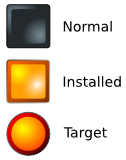
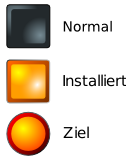
German translation finished!

Changed region(s): [[0.5, 0.4375, 1.0, 0.5625], [0.5, 0.7812, 0.8571, 0.9062]]

diff --git a/fontypythonmodules/help/de/help.html b/fontypythonmodules/help/de/help.html
@@ -22,80 +22,80 @@
 		<a href="#LAYOUT">Das Layout</a> | <a href="#MENUS">Die Menüs</a> | <a href="#SHORTCUTS">Schnellzugriff</a> | <a href="#TIPS">Tipps</a> | <a href="#L10N">Regionale Anpassung</a> | <a href="#BUGS">Fehler</a> | <a href="#LIC">Lizenz</a>
 		</p>
 
-		<h3><font color="#758B94">&Uuml;ber den Grundgedanken</font></h3>
+		<h3><font color="#758B94">Über den Grundgedanken</font></h3>
 		<p>Sie wählen Schriften aus und stellen Sie in <b>"Pogs"</b> zusammen. Sie installieren ein Pog und alle darin versammelten Schriftarten sind für andere Programme verfügbar. Werden sie nicht mehr gebraucht, deinstallieren Sie das Pog wieder.</p>
 		<p>In das Wort "Pog" bin ich selbst hineingestolpert, es leitet sich von der Mitte des Wortes "Typografie" ab. Es bedeutet soviel wie "Sammlung" oder "Gruppe" oder "Bündel" oder "Schachtel" oder "Kasten" oder "Stapel" oder "Haufen" &mdash; Sie wissen was ich meine.</p>
-		<p>Die Schriftdateien werden im Verzeichnisbaum weder verschoben, noch werden Kopien gemacht; bei der Installation werden <i> nur symbolische Verknüpfungen (Links) mit den Originalen </i> im Heimatverzeichnis unter <i>.fonts</i> angelegt.</p>
+		<p>Die Schriftdateien werden im Verzeichnisbaum weder verschoben, noch werden Kopien gemacht; bei der Installation werden <i> nur symbolische Verknüpfungen (Links) mit den Originalen </i> im Heimatverzeichnis unter "<i>.fonts</i>" angelegt.</p>
 		<p>Sie haben z.B. ein Pog "Zoo Logo", in dem Sie alle Schriften abgelegt haben, um ein Logo für einen Zoo zu entwerfen. Anschließend reicht die Installation des Pogs "Zoo Logo". Alle Schriften erscheinen nun in Inkscape, Gimp und anderen Anwendungen. Gehen Sie ganz normal an Ihre Arbeit und machen sich keine Gedanken mehr über die Schriften. Ist die Arbeit getan, deinstallieren Sie "Zoo Logo" und alle Schriften sind wieder aus den Schrift-Auswahldialogen verschwunden. (D.h. die Verknüpfungen/Links mit den originalen Schriftdateien sind aus dem .fonts-Ordner im Heimatverzeichnis entfernt worden, was einer Deinstallation gleichkommt.)</p>
 		<p>Fonty eignet sich auch hervorragend zum Betrachten von Schriften, egal wo sie gespeichert sind und ohne systemweite Installation. Es hat eine Kommandozeilen-Schnittstelle, von der aus Pogs installiert/deinstalliert werden können, ohne die grafische Oberfläche starten zu müssen. Eine nette Besonderheit!</p>
 		<h3><font color="#758B94">Verborgene Schriften im Heimatverzeichnis</font></h3>
-		<p>Im Heimatverzeichnis befindet sich ein verborgener Ordner '.fonts'. Der Punkt kennzeichnet ihn als versteckt. Darin finden sich (eventuell) die unterschiedlichsten Arten von Schriftdateien, die alle vom System genutzt werden können. Allerdings ist es nicht ganz so einfach, weil unter GNU/Linux Schriften auch an anderen Stellen installiert werden können. Aber es ist ein praktischer Ort. Normalerweise braucht man nicht in diesen Ordner zu wechseln, warum sich also weiter Gedanken darum machen.</p>
+		<p>Im Heimatverzeichnis befindet sich ein verborgener Ordner ".fonts". Der Punkt kennzeichnet ihn als versteckt. Darin finden sich (eventuell) die unterschiedlichsten Arten von Schriftdateien, die alle genutzt werden können. Ganz so einfach ist es leider nicht, weil unter GNU/Linux Schriften auch an anderen Stellen systemweit installiert werden. Aber dieser Ordner ist bestens geeignet, eigene Schriften zu installieren. Und da man normalerweise nicht direkt in diesen Ordner wechselt, müssen Sie sich weiter keine Gedanken darum machen.</p>
 		<h3><font color="#758B94">Letzte Neuerungen</font></h3>
 		<ol>	
-			<li>(Sept 2009) Pogs können archiviert werden. Alle Schriften darin werden in einer komprimierten Datei zusammengefasst z.B. um sie weiter zu verteilen.</li>
-			<li>(Juni 2009) Es gibt die Möglichkeit Unterverzeichnisse einzuschließen. Siehe auch die Kommandozeilenoption "-A"</li>
-			<li>(June 2009) Neue Tastenkürzel. Strg+PfeilLinks and Strg+PfeilRechts blättert durch die Seiten.</li>
-			<li>(June 2009) Mehrfachauswahl von Pogs. In einem Schritt können viele Pogs entfernt, installiert oder deinstalliert werden.</li>
+			<li>(September 2009) Pogs können archiviert werden. Alle Schriften darin werden in einer komprimierten Datei zusammengefasst z.B. um sie weiter zu verteilen.</li>
+			<li>(Juni 2009) Es gibt die Möglichkeit Unterverzeichnisse einzuschließen. Siehe auch die Kommandozeilenoption "-A".</li>
+			<li>(Juni 2009) Neue Tastenkürzel. Strg+PfeilLinks and Strg+PfeilRechts blättert durch die Seiten.</li>
+			<li>(Juni 2009) Mehrfachauswahl von Pogs. In einem Schritt können viele Pogs entfernt, installiert oder deinstalliert werden.</li>
 		</ol>
 		
 		<CENTER><IMG src="../common/break.png" border="0"></CENTER>
 
 		<A NAME="LAYOUT"></A>
-		<h3><font color="#758B94">Layout</font></h3>
+		<h3><font color="#758B94">Das Layout</font></h3>
 		<CENTER><IMG src="fp_1to8-nq8.png" border="0">
-		<p><font size=1>Die Benutzeroberfläche ist von links nach rechts aufgebaut. Zunächst wählen Sie ganz links einen Ursprung aus, dann die einzelnen Schriften im mittleren Bereich. Schließlich legen Sie ein 'Pog' als Ziel fest, unter dem die Schriften gespeichert werden.</font></p></CENTER>
+		<p><font size=1>Die Benutzeroberfläche ist von links nach rechts aufgebaut. Zunächst wählen Sie ganz links einen Ursprung aus, dann die einzelnen Schriften im mittleren Bereich. Schließlich legen Sie ein "Pog" als Ziel fest, unter dem die Schriften gespeichert werden.</font></p></CENTER>
 
 
 	<table cellspacing="10">
 	<tr><td valign="top">
 		<IMG src="../common/fp1.png.cr.png" align="left" border="0">
 		</td><td>
-		<h4>Source of fonts.</h4>
-		<p>You can choose a folder <i>or</i> another Pog as the <i>Source</i>, simply choose the appropriate tab.<br>It's quite nice to get fonts out of another Pog sometimes (it's quicker than trying to find them on a drive somewhere), so Pogs can be Sources too &mdash; don't let this confuse you!<br>Keep your eyes on the label at 2 to see what the current selected Source is.</p>
-		<p><strong>Sub-Folders</strong>: Above the Folders is a checkbox to include fonts in sub-folders under your chosen folder. You can deal with many fonts at once in this way &mdash; but beware the trade-off of speed and stability.</p>
+		<h4>Woher kommen die Schriften?</h4>
+		<p>Sie können einen Ordner <i>oder</i> ein anderes Pog als <i>Ursprung</i> verwenden, wählen Sie einfach den entsprechenden Reiter.<br>Manchmal ist es sinnvoll, wenn man Schriften aus einem anderen Pog wählt (es ist viel schneller als ein ganzes Laufwerk zu durchsuchen). Also auch Pogs können Ursprung sein &mdash; lassen Sie sich davon nicht verwirren!<br>Behalten Sie immer die Zeile bei 2 (Statusanzeige) im Auge.</p>
+		<p><strong>Unterverzeichnisse</strong>: Unterhalb der Ordneransicht befindet sich ein Kontrollkästchen "Unterverzeichnisse einschliessen", d.h. alle Schriften in Unterverzeichnissen des gewählten Ordners werden in der Vorschau mit angezeigt. Auf diese Weise können Sie mit sehr vielen Schriften gleichzeitig arbeiten &mdash; Geschwindigkeit und Stabilität leiden aber möglicherweise darunter.</p>
 	</td></tr>
 	<tr><TD valign="top">
 			<IMG src="../common/fp2.png.cr.png" align="left" border="0"></TD><td>
-			<h4>Information area.</h4>
-			<p>This section informs you about what is selected in the Source and Target portions of the interface. Along with the status bar, it keeps you informed about what you can and cannot do at any time.</p>
+			<h4>Statusanzeige</h4>
+			<p>Diese Zeile informiert Sie über die aktuelle Auswahl von Ursprung und Ziel. Zusammen mit der Hilfezeile am unteren Fensterrand gibt sie Auskunft darüber, welche Aktionen möglich oder nicht möglich sind.</p>
 	</td></tr>
 	<tr>
 	<TD valign="top">
 		<IMG src="../common/fp3.png.cr.png" align="left" border="0"></TD><td>
-		<h4>The font view.</h4>
-		<p>The fonts in the folder or Pog you chose on the left will show here.</p>
-		<p><strong>Please note</strong>: An error marker may appear instead of the expected font glyphs. These fonts either cannot be opened (for whatever reason) or Fonty cannot draw them. <i>You can still select</i> these 'bad' fonts, place them into Pogs and then install them. The reason for this is that Fonty Python is not all that good at drawing fonts (it's a long story) but other apps like Inkscape and The Gimp work just fine. So, if you know you need a font and Fonty says it's bad, just ignore the error message and select it like any other font.</p>
-		<p><strong>Tip</strong>: You can change the size of the fonts with <strong>Ctrl + mouse wheel (up/down)</strong>.</p>
-		<h5>This section has various behaviours, depending on what you have selected:</h5>
+		<h4>Die Vorschau</h4>
+		<p>Die Schriften im links markierten Ordner oder Pog werden hier angezeigt.</p>
+		<p><strong>Nota bene</strong>: Statt des erwarteten Textes erscheint möglicherweise eine Fehlermeldung. Diese Schriften können entweder aus irgendwelchen Gründen nicht geöffnet werden oder FontyPython kann sie nicht darstellen. <i>Trotzdem lassen sie sich diese "schlechten" Schriften auswählen, in Pogs speichern und installieren</i>. Der Grund ist, daß FontyPython (leider immer noch nicht) Schriften nicht so zuverlässig darstellen kann wie andere Anwendung, z.B. Inkscape oder The Gimp. Also, auch wenn Fonty behauptet eine Schrift sei "schlecht", ignorieren Sie die Fehlermeldung und behandeln Sie sie wie jede andere Schrift.</p>
+		<p><strong>Tipp</strong>: Die Schriftgröße kann sehr schnell mit der Kombination <strong>Strg + Mausrad (auf/ab)</strong> verändert werden.</p>
+		<h5>Dieser Bereich ermöglicht unterschiedliche Aktionen, je nachdem was ausgewählt ist:</h5>
 		<ol>
 			<li>
-			<h5>You have selected a Source (Pog or Folder) and a Target Pog</h5>
+			<h5>Es ist ein Ursprungsordner oder Pog und ein Ziel ("Vorhandene Pogs") markiert</h5>
 			<IMG src="../common/fp_ticking.png" border="0">
-			<p>This will let you tick fonts and then store them in the Target Pog.</p>
-			<h6>Areas of interest</h6>
+			<p>Schriften können angehakt und im Pog gespeichert werden.</p>
+			<h6>Die Elemente im Einzelnen</h6>
 			<ol>
-				<li><strong>Character Map Button</strong> If you have <em>gucharmap</em> or <em>kfontview</em> installed, this button will show and when clicked will open one of those two apps to let you view the full character-set of the font. You can choose which character map viewer to use in the Settings.<p></p></li>
-				<li><strong>Tick Area</strong> Clicking anywhere on a font will either <em>tick</em> or <em>cross</em> it.<p>A <em>tick</em> means the font can be placed into a <em>Target Pog</em> &mdash; i.e. the one chosen in the right-hand panel.</p><p>A <em>cross</em> means the font will be removed from the <em>Source Pog (The one you are viewing at the moment)</em> &mdash; i.e. the Pog currently chosen on the left-panel.</p><p></p></li>
-				<li><strong>Font Info</strong> Here you will find the family and style and filename. When you use the filter to search, this is the text that is used.</li>
+				<li><strong>Schalter für die Zeichentabelle</strong>: Wenn <em>gucharmap</em> oder <em>kfontview</em> auf Ihrem System installiert ist, wird dieser Schalter angezeigt. Damit können Sie eines der Programme starten, die die vollständige Zeichentabelle der Schrift anzeigen. Welches Programm benutzt werden soll, kann im Dialog Optionen eingestellt werden.<p></p></li>
+				<li><strong>Auswahlbereich</strong>: Ein Klick in diesen Bereich <em>hakt</em> oder <em>kreuzt</em> die Schrift an.<p>Ein <em>Haken</em> bedeutet die Schrift kann in das <em>markierte Pog</em> übernommen werden &mdash; also in das in der rechten Liste ausgewählte.</p><p>Ein <em>Kreuz</em> bedeutet die Schrift wird aus dem <em>gerade angezeigten Pog </em> entfernt &mdash; das Pog also, das in der linken Liste ausgewählt ist.</p><p></p></li>
+				<li><strong>Schriftinformationen</strong>: Hier werden die Familie, der Stil sowie der Dateiname eingeblendet. Diese Angaben werden beim Filtern der Vorschau ausgewertet.</li>
 			</ol>
 			<hr>
 			</li>
 			<li>
-			<h5>You have selected a Source Folder (or a Pog) <em>only</em></h5>
+			<h5>Es ist <em>nur</em> ein Ursprungsordner markiert</h5>
 			<IMG src="../common/fp_normal_item.png" border="0">
-			<p>This will not let you tick anything, you can only look. There is no visual difference.</p>
+			<p>Die Schriften können weder angehakt noch angekreuzt werden. Optisch gibt es keinen Unterschied zum vorher beschriebenen Zustand.</p>
 			<hr>
 			</li>
 			<li>
-			<h5>You have selected a Source Pog <em>only</em></h5>
+			<h5>Es ist <em>nur</em> links ein Pog markiert</h5>
 			<IMG src="../common/fp_removing_a_font.png" border="0">
-			<p>This will let you cross-out fonts that you want to remove from the Pog you are looking at now.</p>
+			<p>Sie kreuzen die Schriften an, die aus dem Pog entfernt werden sollen.</p>
 			<hr>
 			</li>
 			<li>
-			<h5>Inactive fonts</h5>
-			<IMG src="../common/fp_already_in_x.png" border="0">
-			<p>This greyed-out font indicates that it's already in the Target Pog, so you can't select it.</p>
+			<h5>Gesperrte Schriften</h5>
+			<IMG src="fp_already_in_x.png" border="0">
+			<p>Die ausgegraute Anzeige weist auf Schriften hin, die sich bereits im Ziel(-pog) befinden. So wird verhindert, dass Schriften mehrfach in einem Pog gespeichert werden.</p>
 			</li>
 	</ol>
 	</td>
@@ -103,17 +103,17 @@
 	<tr>
 	<TD valign="top">
 	<IMG src="../common/fp4.png.cr.png" align="left" border="0"></TD><td valign="top">
-	<h4>Target Pogs.</h4>
+	<h4>Status der Pogs</h4>
 	<table><tr>
 			<td>
 				<IMG src="fp_pog_icons.cr.png" align=left border="0">
 			</td>
 			<td valign="top">
-				These icons indicate which are currently installed and which are not.
+				Diese Symbole zeigen an, ob ein Pog installiert ist.
 				<ul>
-					<li>You cannot use an installed Pog as a Target.</li>
-					<li>You choose a Target Pog by clicking one (on the right).</li>
-					<li>By holding <i>Ctrl</i> you can select many Pogs at once.</li>
+					<li>Installierte Pogs können nicht verändert werden.</li>
+					<li>Welches Pog erweitert werden soll ("Ziel") bestimmen Sie rechts.</li>
+					<li>Mit <i>Strg + Klick</i> können mehrere Pogs gleichzeitig ausgewählt werden.</li>
 				</ul>
 			</td>
 		</tr>
@@ -121,147 +121,145 @@
 	</td></tr>
 	<tr><TD valign="top">
 			<IMG src="../common/fp5.png.cr.png" align="left" border="0"></TD><td>
-			<h4>The filter.</h4>
-			<p>This is the "filter". You can type partial words here and the list of fonts will change to reflect the search. For example, if you only want the italic fonts, then type <pre>italic</pre> (And press ENTER)<br>When you want all the fonts again, clear the box and press ENTER.</p>
-	<p><strong>Tip</strong>: If you want to search for bold <em>or</em> italic (i.e fonts with either term) then type in <pre>bold | italic</pre><font size=-1>That line (|) is the key near ENTER, above the backslash (\) character on a US-English keyboard. It means "OR" so: "bold OR italic" is what you are saying to the filter.</font></p>
-			<p><strong>NOTE</strong>: There's a bug I can't find &mdash; If you are not seeing any fonts, be sure to clear your filter and press <strong><em>enter</em></strong>; you may have to do it twice.</p> 
+			<h4>Der Filter</h4>
+			<p>In der Vorschau erscheinen nur noch die Schriften, auf deren Angaben (vgl. <strong>Schriftinformationen</strong>) der hier eingegebene Text zutrifft. Wollen Sie z.B. nach Serifen filtern, schreiben Sie <pre>serif</pre> (und betätigen die Eingabetaste!)<br><br>Wollen Sie wieder zur ungefilterten Ansicht zurückkehren, benutzten Sie den Schalter "Filter löschen" bzw. leeren das Eingabefeld.<br>Für die Suche nach Standardstilen benutzen Sie die Wechselschalter "Fett", "Kursiv", "Normal". Ist z.B. der Schalter "Fett" eingedrückt werden nur noch Schriften angezeigt deren vollständiger Name das Wort "bold" (die englische Bezeichnung für fette Schriften) enthält. "Fett" und "Kursiv" lassen sich kombinieren, "Normal" kann nur allein aktiviert werden. Eine fette, normale Schrift wäre ziemlich unlogisch!</p>
+	<p><strong>Tipp</strong>: Sicher ist Ihnen die Linie (|) in <pre>regular|normal</pre><br><br>aufgefallen, wenn Sie den Schalter "Normal" betätigen. Das Eingabefeld erlaubt reguläre Ausdrücke für, alle die etwas davon verstehen.<font size=-1> "|" bedeutet "ODER", es werden also nur Schriften ausgefiltert, auf die die Beschreibung "normal" ODER "regular" zutrifft.</font></p>
+			<p><strong>ANMERKUNG</strong>: Es gibt einen Fehler, den ich noch nicht beheben konnte &mdash; wenn Sie keine Schriften sehen können, stellen Sie sicher, dass das Eingabefeld "Filter" leer ist und drücken, eventuell auch zweimal, die  <strong><em>Eingabetaste</em></strong>.</p> 
 	</td></tr>
 	<tr>
 		<TD valign="top">
 		<IMG src="../common/fp6.png.cr.png" align="left" border="0"></TD><td>
-		<h4>The action button.</h4>
-		<p>This is the main <i>action</i> button. It will change its functionality as you select various combinations. The text of the button ought to give a clear indication of what it will do. Read it in conjunction with the Info area and the status bar.</p>
+		<h4>Der Hauptschalter</h4>
+		<p>Dies ist der wichtigste Schalter. Er löst je nach der aktuellen Situation verschiedene <i>Aktionen</i> aus. Die Beschriftung des Schalters sollte einen klaren Hinweis darauf geben, was geschieht. Beachten Sie auch die <strong>Statusanzeige</strong> und die <strong>Hilfezeile</strong>.</p>
 	</td></tr>
 	<tr>
 		<TD valign="top"><IMG src="../common/fp7.png.cr.png" align="left" border="0"></TD><td>
-			<h4>Navigation.</h4>
-			<p>These controls allow you to navigate between "pages" of fonts. You can also choose any page from the pull-down. Please go to Tools->Settings (or hit Ctrl+S &mdash; for English locales) where you can change the number of fonts in a page. <i>I use the paged approach to reduce the memory demands of the app.</i></p>
+			<h4>Navigation</h4>
+			<p>Hier können Sie sich durch die "Seiten" bewegen. Benutzen Sie die "Vor"/"Zurück"-Schalter oder gehen direkt zu einer Seite über die Aufklappliste. Im Einstellungsdialog (Datei->Optionen oder Strg+O &mdash; für die deutsche Version) kann die Seitenlänge, d.h. die Schriften pro Seite, festgelegt werden. <i>Dieser Ansatz soll den Speicherbedarf von FontyPython möglichst gering halten.</i></p>
 	</td></tr>
 	<tr>
 		<TD valign="top"><IMG src="../common/fp8.png.cr.png" align="left" border="0"></td><td>
-	<h4>Pog actions.</h4>
-	<p>The buttons in this section all act upon the currently selected <strong>Target</strong> Pog(s). You can variously delete, install, uninstall and zip the selected Pog(s). You can also create new Pogs from here.</p><p>The "Clear Selection" button will clear all the Pogs you have selected.</p>
+	<h4>Abteilung Pogs</h4>
+	<p>Diese Schalter verändern die <strong>Ziel</strong>-Pogs ("Vorhandene Pogs"). Alle markierten Pogs können gelöscht, installiert, deinstalliert oder komprimiert werden. Oder Sie erstellen ein neues Pog.</p><p>Mit "Nichts auswählen" entfernen Sie alle Markierungen.</p>
 	</td></tr>
 	</table>
-	<p><A href="#TOP"><font size=-1>Go to top</font></A></p>
+	<p><A href="#TOP"><font size=-1>Nach oben</font></A></p>
 
 	<CENTER><IMG src="../common/break.png" border="0"></CENTER>
 
 	<A NAME="MENUS"></A>
-	<h3><font color="#758B94">Menu items</font></h3>
+	<h3><font color="#758B94">Die Menüs</font></h3>
 	<ol>
-		<li><strong>Tools menu</strong>
+		<li><strong>Das Datei-Menü</strong>
 		<ol>
-			<li>Settings: Access the settings for the font view. Shortcuts: Ctrl+S or middle-click on the font view.</li>
-			<li>Check Fonts: Choose a folder and scan for bad fonts which are then noted to prevent crashing Fonty in the future. Use this if your head is tired of the wall/desktop.</li>
-			<li>Purge Pog: The Pog you are currently looking at may have yellow items which indicate fonts that are not there anymore. Use purge to remove them. <font size=-1>A Pog contains a list of fonts paths. If a font is moved on the disk, say it's renamed or deleted, then the path in the Pog will point to a font that is not there anymore.</font></li>
-			<li>Exit: Guess :)</li>
-		</ol>
-		<li><strong>Selection menu</strong>
+			<li>Optionen: Einstellungen für die Vorschau. Schnellzugriff: Strg+O oder Mittelklick auf die Vorschau.</li>
+			<li>Überprüfe Schriften: Bestimmen Sie einen Ordner, der auf Schriften überprüft werden soll, die FontyPython immer wieder zum Absturz bringen. Der Rettungsring für genervte Nutzer.</li>
+			<li>Bereinige Pog: Vielleicht sehen Sie in einem Pog gelb hervorgehobene Einträge. Ein Pog ist eigentlich nur eine Liste mit Dateipfaden zu den Schriften. Wurde eine Schrift umbenannt, verschoben oder gelöscht, führt der Eintrag ins Leere. Hier können Sie alle verwaisten Einträge aus einem Pog entfernen.</li>
+			<li>Beenden: Raten Sie mal :)</li>
+		</ol><br>
+		<li><strong>Das Auswahl-Menü</strong>
 		<ol>
-			<li>Select ALL the source fonts: While only a few fonts are shown in a page at a time, there may be thousands in the selected source. This will select all those fonts in one go.</li>
-			<li>Clear ENTIRE selection: Will clear any selection.</li>
+			<li>ALLE Schriften im Ordner/Pog auswählen: Auch wenn nur wenige Schriften auf einer Seite angezeigt werden, befinden sich vielleicht viel mehr in dem Ordner/Pog. Diese werden alle in einem Durchgang angehakt bzw. angekreuzt.</li>
+			<li>GESAMTE Auswahl aufheben: Alle Markierungen werden wieder entfernt.</li>
 		</ol>
 	</ol>
 
-	<p><A href="#TOP"><font size=-1>Go to top</font></A></p>
+	<p><A href="#TOP"><font size=-1>Nach oben</font></A></p>
 
 	<CENTER><IMG src="../common/break.png" border="0"></CENTER>
 	
 
 	<A NAME="SHORTCUTS"></A>
-	<h3><font color="#758B94">Shortcut keys</font></h3>
+	<h3><font color="#758B94">Schnellzugriff</font></h3>
 	<ol>
-		<li><strong>If shortcut keys don't work</strong>, click in the filter text box. This seems to kick them back to life. Don't ask me what's going on....</li>
-		<li><strong>Esc key</strong> will close your app (and help etc.) quickly.</li>
-		<li><strong>Ctrl+LeftArrow and Ctrl+RightArrow</strong> will step through fonts like the Next and Previous buttons do.</li>
-		<li><strong>Middle-click (the wheel-button)</strong> in the font view (position 3 above) will open the Settings screen (like Ctrl+S does)</li>
-		<li><strong>Ctrl + Mouse wheel up/down</strong> will increase/decrease the size of your font previews quickly.</li>
+		<li><strong>Wenn die Schnellzugriffstasten nicht funktionieren</strong>, setzen Sie den Eingabefocus in das Filtertextfeld. Fragen Sie mich nicht warum....</li>
+		<li><strong>Escape</strong> schliesst Anwendung, Dialoge oder Hilfe.</li>
+		<li><strong>Strg+PfeilLinks und Strg+PfeilRechts</strong> haben die gleiche Wirkung wie die "Vor"/"Zurück"-Schalter.</li>
+		<li><strong>Mittelklick (Mausrad)</strong> in der Vorschau (vgl. Punkt 3 Die Vorschau) öffnet den Einstellungsdialog.</li>
+		<li><strong>Strg + Mausrad</strong> vergrößert/verkleinert die Schriftgröße direkt.</li>
 	</ol>
 	
-	<p><A href="#TOP"><font size=-1>Go to top</font></A></p>
+	<p><A href="#TOP"><font size=-1>Nach oben</font></A></p>
 
 	<CENTER><IMG src="../common/break.png" border="0"></CENTER>
 
 	<A NAME="TIPS"></A>
-	<h3><font color="#758B94">Handy tips</font></h3>
+	<h3><font color="#758B94">Tipps</font></h3>
 	<ol>
-		<li>Try to use Fonty from the command-line (from a console). It's easy, simply type: <pre>fontypython --help</pre></li>
-		<li>Pog files are merely text files. They are very, very simple and this was intentional. Here are some things you can do with them:
+		<li>FontyPython hat auch eine Kommandozeilen-Schnittstelle. Probieren Sie in einem Terminal: <pre>fontypython --help</pre></li>
+		<li>Pog-Dateien sind lediglich Textdateien. Sie sind absichtlich sehr einfach gehalten. Hier ein paar Sachen, die Sie damit anstellen können:
 		<ul>
-			<li>Open and edit them in any text editor.</li>
-			<li>Append fonts to the end of them, just include the entire path and the font name.<strong>Note for Type1 fonts:</strong>Only include the PFA/B file types, not the various metric files that follow them.</li>
-			<li>If your paths change (say you renamed your folders, or re-installed your O/S) then you can use search/replace to update all the paths to all the fonts in your Pogs. You could do this from the command-line using GNU tools, but any text editor will help you here too.</li>
-			<li>You can backup your Pogs by simply copying them to another folder.</li>
-			<li>One last trick, for those proficient with the Gnu tools, you can do things like this:<pre>find /home/you/somepath/TTFS/F -iname "Fu*" >> Futura.Pog</pre></li>
+			<li>Sie lassen sich mit jedem Texteditor bearbeiten.</li>
+			<li>Pogs lassen sich erweitern, indem Sie einfach den vollständigen Pfad zur Schriftdatei in die Textdatei einfügen.<br><strong>Hinweis für Type1-Schriften</strong>: Bitte nur die PFA/PFB-Dateien eintragen, mit den Dateiendungen .pfa bzw. .pfb.</li>
+			<li>Falls sich die Pfade verändert haben (z.B. weil Sie Ihr Betriebssystem neu installiert haben), können Sie die Pfade automatisch mit GNU-Werkzeugen (find, locate, sed,...) oder von Hand anpassen.</li>
+			<li>Legen Sie Sicherungskopien Ihrer Pogs an: cp ~/.fontypython/*.pog ~/backup/ .</li>
+			<li>Ein letzter Trick für alle GNU-Gurus, auch so etwas ist möglich:<pre>find /home/name/einpfad/TTFS/F -iname "Fu*" >> Futura.pog</pre></li>
 		</ul>
 	</li>
 	</ol>
 	
-	<p><A href="#TOP"><font size=-1>Go to top</font></A></p>
+	<p><A href="#TOP"><font size=-1>Nach oben</font></A></p>
 
 	<CENTER><IMG src="../common/break.png" border="0"></CENTER>
 
 	<A NAME="L10N"></A>
-	<h3><font color="#758B94">Localization tips</font></h3>
+	<h3><font color="#758B94">Regionale Anpassung</font></h3>
 	<ol>
-		<li>If localization is not working it could be that there is no translation for your language yet, it can also be a problem with missing packages in your distro.<br>
-		This is what I installed on my system (Kubuntu 7.10 as of December 2007) while I was developing:<br>
+		<li>Wenn FontyPython nicht in Ihrer Sprache erscheint, liegt es wahrscheinlich daran, dass noch keine Übersetzung vorliegt (gegenwärtig sind Englisch, Französisch, Italienisch und Deutsch verfügbar). Oder es fehlen bestimmte Sprachpakete Ihrer Distribution.<br>
+		Suchen Sie mit Ihrem Packetmanager nach Namen wie:<br>
 		<ul>
 		<li>language-support-fr</li>
 		<li>language-support-en</li>
-		<li>language-pack-gnome-fr <strong>This one is very important, it has many stock translations for GTK.</strong></li>
+		<li>language-pack-gnome-fr <strong><br>Dies ist besonders wichtig, damit die Standardelemente in GTK übersetzt werden.</strong></li>
 		</ul>
-		(Replace the last two letters with your own language code.)</li>
+		(Die beiden letzten Buchstaben werden durch Ihren Ländercode ersetzt.)</li>
 
-		<li><strong>ENCODING TIP:</strong><br/>Check your LANG variable. Open a console and type: <pre>echo $LANG</pre><br/>
-	If it reports "C" or "POSIX" or it's blank then you will be running under ANSI (ASCII) encoding only. This means that unusually named fonts and Pogs will likely be invisible to you, function badly, or cause errors. I am putting out fires as fast as I can, but these bugs are hard to find.<br/>
-	To see what other encodings you could be using, type:<pre>locale -a</pre><br/>
-	You should see a list of locales. If you see one ending in utf8 that looks like it fits your language, then change your system to use it. You should do this via your system-settings gui, but you can do it temporarily like this:
-	<pre>LANG=xx_YY.encoding</pre> Where xx_YY and encoding are replaced by you. After that, start Fonty again.
+		<li><strong>ENKODIERUNGS HINWEISE:</strong><br/>Überprüfen Sie die Variable LANG . Öffnen Sie ein Terminal und schreiben: <pre>echo $LANG</pre><br/>
+	Ist die Ausgabe "C" oder "POSIX" oder ist leer, ist nur die  ANSI/ASCII-Kodierung verfügbar. Deshalb können Schriften und Pogs mit Buchstaben im Namen, die nicht zu den 128 Zeichen des ANSI/ASCII-Satzes gehören, eventuell nicht angezeigt werden oder Fehlfunktionen verursachen. Dieser Art Fehler sind schwer zu finden, aber ich tue mein Bestes.<br/>
+	<br><br>Um zu sehen, welche Enkodierungen Ihr System sonst noch bietet, geben Sie folgenden Befehl ein:<pre>locale -a</pre><br/>
+	Sie sollten eine mehr oder weniger lange Liste sehen. Falls ein Eintrag dabei ist, der mit "utf8" endet, haben Sie gute Chancen. Passen Sie die Umgebungsvariablen mit den entsprechenden Werkzeugen an oder setzen sie probeweise mit (für Deutsch):
+	<pre>export LANG=de_DE.utf8</pre> Danach starten Sie Fonty erneut vom selben Terminal aus.
 		</li>
-		<li>If you want to help translate, please contact us via the fontypython list: fontypython@googlegroups.com</li>
+		<li>Wenn Sie bei der Übersetzung helfen wollen, nehmen Sie Kontakt mit der Mailingliste auf: fontypython@googlegroups.com</li>
 	</ol>
 
-	<p><A href="#TOP"><font size=-1>Go to top</font></A></p>
+	<p><A href="#TOP"><font size=-1>Nach oben</font></A></p>
 
 	<CENTER><IMG src="../common/break.png" border="0"></CENTER>
 
 	<A NAME="BUGS"></A>
-	<h3><font color="#758B94">Fonty bugs</font></h3>
+	<h3><font color="#758B94">Fontys Fehler</font></h3>
 	<ol>
-	   <li><strong>Fatal crashes and Dangerous Fonts:</strong> Some fonts stick in Fonty's throat and crash her. If you wait a moment, a window should appear and tell you which font is to blame. You should <em>move</em> that font <em>entirely</em> away from where it is. Start Fonty again to resume. If you are stuck, go into your .fontypython folder and open the file named 'lastFontBeforeSegfault', that will be the culprit!</li>
-	   <li><strong>Check Fonts:</strong> I've added a new tool to the Tools menu that will let you choose a folder (and it will go through all the sub-folders too) of fonts for checking. Any fonts that are likely to kill Fonty will be recorded in your ~/.fontypython folder in a file named 'segfonts'. After you do this, you can visit those folders in Fonty and it will display those fonts in yellow. <strong>If you find that Fonty is crashing too often</strong>, then use this tool!<br><font size=-1>There is also a command line to the same tool (fontypython -c /some/folder). Please check the command-line help.</font></li>
-	   <li>If you get errors post a report on <strong><a href="https://savannah.nongnu.org/bugs/?group=fontypython">https://savannah.nongnu.org/bugs/?group=fontypython</a></strong>. Please run Fonty from the command line so that you can copy the error displayed (if any).</li>
-	   <li>When Fonty starts-up it checks your Pog files (in your home folder under .fontypython). If there are any Pogs that cannot be read for whatever reason, then they are renamed to .badpog. You should go in there and do some sleuthing.</li>
-	   <li>As Fonty reads font files here and there, it keeps a list of the fonts it could not open. It's in the .fontypython folder. Open "badfiles" in a text editor if you want to see them.</li>
+	   <li><strong>Fatale Abstürze und gefährliche Schriften:</strong> Manche Schriften bleiben FontyPython im Hals stecken und bringen es zum Absturz. Kurz darauf sollte ein Fenster erscheinen, das die Schuldige nennt. Sie sollten diese Schrift in einen anderen Ordner <em>verschieben</em>. Starten Sie Fonty nocheinmal. Bleiben Sie wieder hängen, öffnen Sie aus dem Ordner ".fontypython" in Ihrem Heimatverzeichnis die Datei "lastFontBeforeSegfault". Hier finden Sie den Pfad zur letzten Schrift, die vor dem Absturz geöffnet wurde!</li>
+	   <li><strong>Überprüfe Schriften:</strong> FontyPython bietet auch die Möglichkeit, ganze Ordner (mit Unterordner) nach möglicherweise beschädigten Schriften zu durchsuchen (vgl. <strong>Das Datei-Menü</strong>). Alle als bedenklich eingestuften Schriften werden in der Datei "~/.fontypython/segfonts" notiert. Anschließend überspringt FontyPython diese Schriften und stellt sie nur noch symbolisch mit gelben Hintergrund dar. <strong>Finden Sie FontyPython läuft zu unstabil, machen Sie diesen Test!</strong><br>Der Test kann auch von der Kommandozeile gestartet werden: fontypython -c /ein/pfad.</li>
+	   <li>Fehler melden Sie bitte an <strong><a href="https://savannah.nongnu.org/bugs/?group=fontypython">https://savannah.nongnu.org/bugs/?group=fontypython</a></strong>. Hilfreich ist, wenn Sie FontyPython von einem Terminal aus starten. So sehen Sie alle Fehlermeldungen.</li>
+	   <li>Beim Start sucht FontyPython nach Pog-Dateien (".fontypython/xxx.pog"). Kann aus irgendeinem Grund eine Datei nicht gelesen werden, wird sie in "xxx.badpog" umbenannt. Möchte Sie den Grund wissen, spielen Sie Detektiv.</li>
+	   <li>In der Datei "~/.fontypython/badfiles" merkt sich FontyPython alle Schriften, die nicht geöffnet werden konnten. Sie lässt sich mit jedem Texteditor betrachten.</li>
 	</ul>
 	</li>
 	</ol>
 
-	<p><A href="#TOP"><font size=-1>Go to top</font></A></p>
+	<p><A href="#TOP"><font size=-1>Nach oben</font></A></p>
 
 	<CENTER><IMG src="../common/break.png" border="0"></CENTER>
 
 	<A NAME="LIC"></A>
-	<h3><font color="#758B94">Licence</font></h3>
-	<p>Fonty Python is Copyright (C) 2006, 2007, 2008, 2009 Donn.C.Ingle.</p>
-	<p>This file is part of Fonty Python.<br>
-	Fonty Python is free software: you can redistribute it and/or modify<br>
-	it under the terms of the GNU General Public License as published by<br>
-	the Free Software Foundation, either version 3 of the License, or<br>
-	(at your option) any later version.<br>
+	<h3><font color="#758B94">Lizenz</font></h3>
+	<p>Fonty Python steht unter Copyright (C) 2006, 2007, 2008, 2009 Donn.C.Ingle.</p>
+	<p>Diese Datei ist Teil von Fonty Python.<br>
+	Fonty Python ist Freie Software: Sie können sie weiterverbreiten und/oder verändern<br>
+	nach den Bestimmungen der GNU General Public License wie sie von der Free Software Foundation<br>
+	veröffentlicht wird. Entweder in der Version 3, oder jeder späteren Version.<br>
+	Fonty Python wird in der Hoffnung herausgegeben nützlich zu sein,<br>
+	aber OHNE JEGLICHE GARANTIE; auch ohne die stillschweigende Garantie<br>
+	der HANDELSFÄHIGKEIT oder der ANWENDBARKEIT FÜR EINEN BESTIMMTEN ZWECK.<br>
+	Näheres erfahren Sie in der GNU General Public License.<br>
 	<br>
-	Fonty Python is distributed in the hope that it will be useful,<br>
-	but WITHOUT ANY WARRANTY; without even the implied warranty of<br>
-	MERCHANTABIliTY or FITNESS FOR A PARTICULAR PURPOSE.  See the<br>
-	GNU General Public License for more details.<br>
-	<br>
-	You should have received a copy of the GNU General Public License<br>
-	along with Fonty Python.  If not, see http://www.gnu.org/licenses/
+	Mit FontyPython sollten Sie eine Kopie der GNU General Public License<br>
+	erhalten haben.  Falls nicht, schlagen Sie unter http://www.gnu.org/licenses/ nach.
 	</p>
 	
-	<p><A href="#TOP"><font size=-1>Go to top</font></A></p>
+	<p><A href="#TOP"><font size=-1>Nach oben</font></A></p>
 
 
 	</TD></TR></table>

diff --git a/fontypythonmodules/gui_ScrolledFontView.py b/fontypythonmodules/gui_ScrolledFontView.py
@@ -51,7 +51,7 @@ class ScrolledFontView(wx.lib.scrolledpanel.ScrolledPanel) :
 		self.firstrun =True 
 
 		## Michael: Perhaps scroll x and y? If we have a long sample text, the last words couldn't be seen.
-		self.SetupScrolling(rate_y=5)#, scroll_x=False)
+		self.SetupScrolling(rate_y=5, scroll_x=False)
 		
 		ps.sub( reset_top_left_adjustments, self.ResetTopLeftAdjustFlag ) ##DND: class ScrolledFontView 
 
